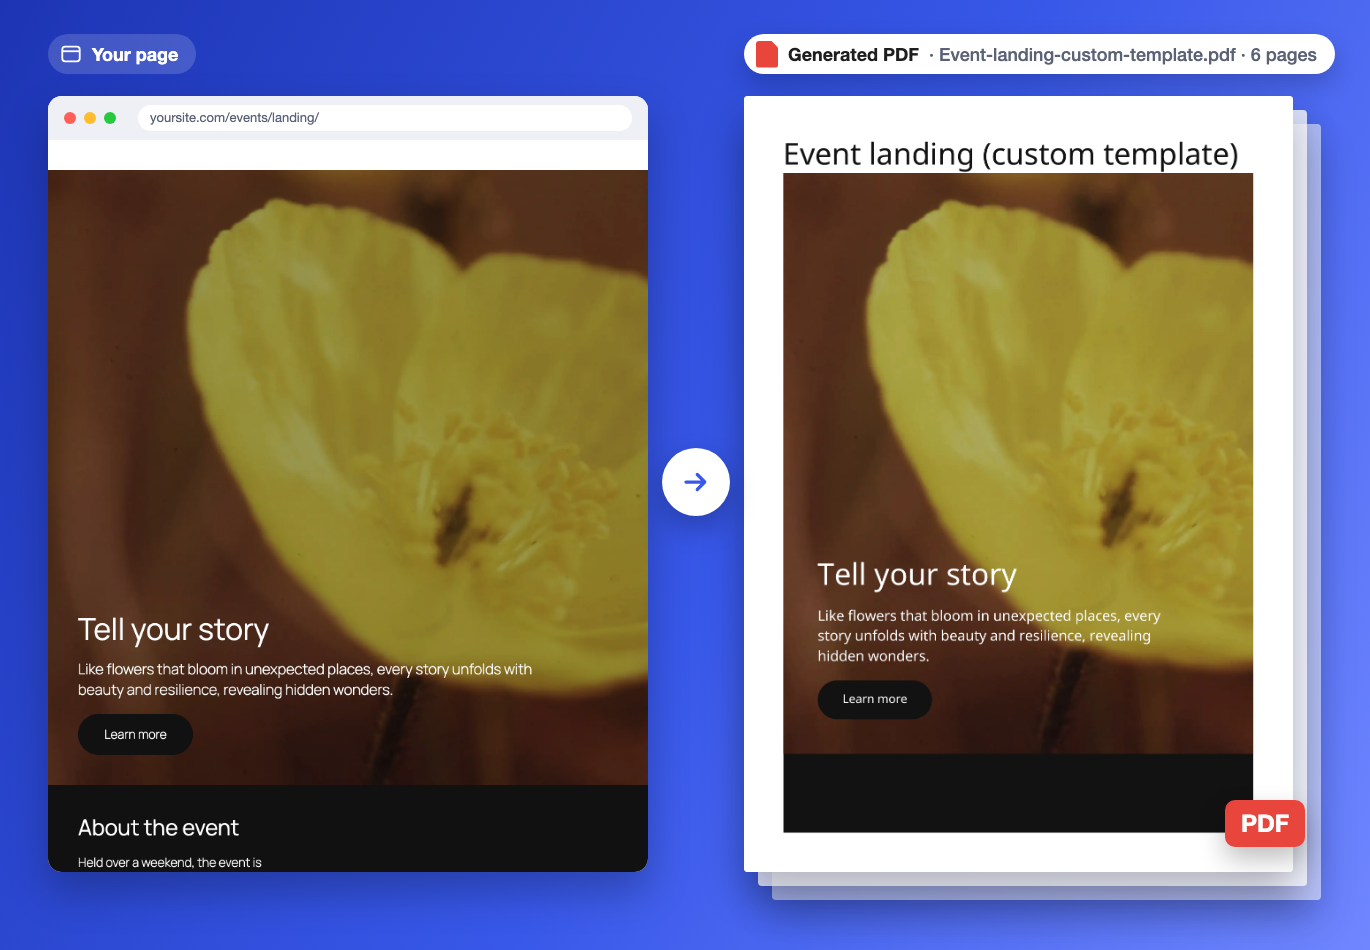
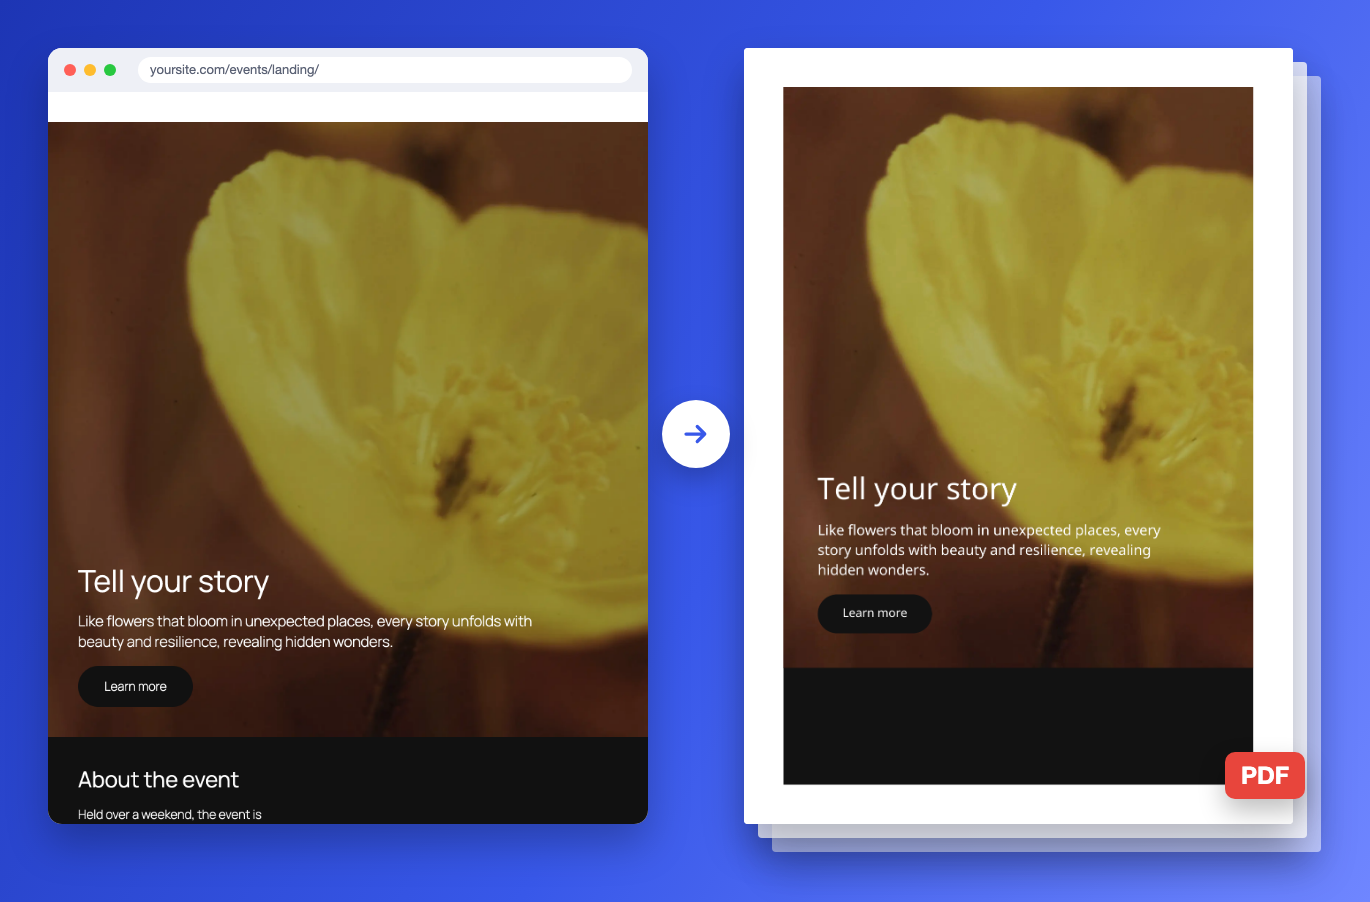
Update assets

diff --git a/bin/wporg-assets/web-to-pdf.html b/bin/wporg-assets/web-to-pdf.html
@@ -1,8 +1,8 @@
 <!doctype html>
 <!--
-	Screenshot 2, rendered at 1370x950 by bin/wporg-assets.mjs: the page in a browser frame on the left,
+	Screenshot 2, rendered at 1370x902 by bin/wporg-assets.mjs: the page in a browser frame on the left,
 	the generated PDF (first page on a stack of sheets) on the right.
-	Tokens: {{WEB}} (page capture, shown at 600x732), {{URL}}, {{PDF}} (first PDF page), {{FILENAME}}, {{PAGES}}.
+	Tokens: {{WEB}} (page capture, shown at 600x732), {{URL}}, {{PDF}} (first PDF page).
 -->
 <html>
 <head>
@@ -10,27 +10,14 @@
 <style>
 	html, body { margin: 0; }
 	body {
-		width: 1370px; height: 950px; overflow: hidden; position: relative;
+		width: 1370px; height: 902px; overflow: hidden; position: relative;
 		background: linear-gradient(120deg, #1d35b4 0%, #3858e9 55%, #6f86ff 100%);
 		font-family: -apple-system, "Helvetica Neue", Arial, sans-serif;
 	}
 
-	/* Labels above each side. */
-	.label {
-		position: absolute; top: 34px; height: 40px; display: flex; align-items: center; gap: 10px;
-		padding: 0 18px 0 12px; border-radius: 999px; font-size: 18px; font-weight: 700;
-	}
-	.label.web { left: 48px; background: rgba(255, 255, 255, .16); color: #fff; }
-	.label.pdf { left: 744px; background: #fff; color: #1e1e1e; box-shadow: 0 10px 24px rgba(0, 0, 0, .2); }
-	.label .meta { font-weight: 500; color: #5b6275; }
-	.doc {
-		width: 22px; height: 27px; background: #e8453c; border-radius: 3px;
-		clip-path: polygon(0 0, 15px 0, 100% 7px, 100% 100%, 0 100%);
-	}
-
 	/* The page. */
 	.browser {
-		position: absolute; left: 48px; top: 96px; width: 600px; border-radius: 14px; overflow: hidden;
+		position: absolute; left: 48px; top: 48px; width: 600px; border-radius: 14px; overflow: hidden;
 		background: #fff; box-shadow: 0 20px 40px rgba(0, 0, 0, .25);
 	}
 	.bar { height: 44px; background: #eef0f6; display: flex; align-items: center; gap: 8px; padding: 0 16px; }
@@ -46,32 +33,26 @@
 
 	/* Arrow between the two. */
 	.arrow {
-		position: absolute; left: 662px; top: 448px; width: 68px; height: 68px; border-radius: 50%;
+		position: absolute; left: 662px; top: 400px; width: 68px; height: 68px; border-radius: 50%;
 		background: #fff; box-shadow: 0 12px 28px rgba(0, 0, 0, .25);
 		display: flex; align-items: center; justify-content: center;
 	}
 
 	/* The PDF: first page on a stack of sheets. */
 	.sheet {
-		position: absolute; left: 744px; top: 96px; width: 549px; height: 776px; background: #fff; border-radius: 4px;
+		position: absolute; left: 744px; top: 48px; width: 549px; height: 776px; background: #fff; border-radius: 4px;
 		box-shadow: 0 20px 40px rgba(0, 0, 0, .25);
 	}
 	.sheet.s3 { transform: translate(28px, 28px); opacity: .55; }
 	.sheet.s2 { transform: translate(14px, 14px); opacity: .8; }
 	.sheet img { display: block; width: 100%; height: 100%; object-fit: contain; border-radius: 4px; }
 	.badge {
-		position: absolute; left: 1225px; top: 800px; background: #e8453c; color: #fff; font-weight: 800;
+		position: absolute; left: 1225px; top: 752px; background: #e8453c; color: #fff; font-weight: 800;
 		font-size: 24px; padding: 9px 16px; border-radius: 10px; box-shadow: 0 12px 26px rgba(0, 0, 0, .25);
 	}
 </style>
 </head>
 <body>
-	<div class="label web">
-		<svg width="22" height="22" viewBox="0 0 24 24" fill="none" stroke="#fff" stroke-width="2"><rect x="2.5" y="4" width="19" height="16" rx="3"/><path d="M2.5 9h19"/></svg>
-		Your page
-	</div>
-	<div class="label pdf"><span class="doc"></span>Generated PDF <span class="meta">· {{FILENAME}} · {{PAGES}}</span></div>
-
 	<div class="browser">
 		<div class="bar"><i></i><i></i><i></i><div class="url">{{URL}}</div></div>
 		<img src="{{WEB}}">

diff --git a/CLAUDE.md b/CLAUDE.md
@@ -20,7 +20,7 @@ Content PDF is a WordPress plugin (PHP 8.1+, namespace `Dinamiko\ContentPdf`) bu
 - `npm run playground`: starts WordPress Playground (`@wp-playground/cli`, no Docker) on `http://127.0.0.1:9400`, mounting this working copy as the plugin and running `bin/playground/blueprint.json` (activates the plugin, runs the demo seeder through the `wp-cli` step). Needs `composer install` and `npm run build`. The wordpress.org Live Preview uses `.wordpress-org/blueprints/blueprint.json` (installs from wordpress.org, same seeder; goes to SVN `assets/blueprints/blueprint.json`). Keep both blueprints in sync, and keep `bin/demo-content/` in the release zip because the preview seeds from the installed plugin.
 - `npm run copy-vendor`: copies the dompdf.js browser build from `node_modules` into `modules/Export/assets/vendor/dompdf/` (committed). `dompdf.js` is pinned in `package.json` because the export JS works around bugs in that version.
 - `npm run dist`: builds the JS, then runs `bin/dist.mjs` to create the wordpress.org release zip `dist/content-pdf.zip`, with a single `content-pdf/` folder inside. Only tracked files on the `INCLUDE` allowlist in `bin/dist.mjs` are copied: the main plugin file, `readme.txt`, `modules/` and `bin/demo-content/`. Production `vendor/` comes from `composer install --no-dev` in the staging folder, so the repo's dev `vendor/` is left alone. `composer.json` stays in the zip (Plugin Check warns about `vendor/` without it), and `composer.lock` is removed. `docs/` is never shipped. The command fails if the plugin header `Version:` doesn't match the readme's `Stable tag:`. It needs `composer` and `zip` on the host.
-- `npm run wporg:assets` / `npm run wporg:screenshots`: generate the wordpress.org plugin page assets in `.wordpress-org/` (goes to SVN `assets/`, never into the zip) with `bin/wporg-assets.mjs`. `wporg:assets` renders `icon.svg` to `icon-128x128.png`/`icon-256x256.png` and `bin/wporg-assets/banner.html` to `banner-1544x500.png`/`banner-772x250.png` (both are placeholders to replace with the final design). `wporg:screenshots` captures `screenshot-1..5.png` from the dev site, matching `== Screenshots ==` in `readme.txt`. Every screenshot sits on the banner's blue gradient with a 48px border (`scene()` in the script): #2 is a staged "page → generated PDF" scene (`bin/wporg-assets/web-to-pdf.html`: the page in a browser frame, the first PDF page on a stack of sheets, with the real filename and page count), settings cards in a browser frame with the admin chrome and other cards hidden. Screenshot 1 is a staged scene (`bin/wporg-assets/screenshot-1.html`: a post capture in a browser frame, with the button highlighted and the download notice); `node bin/wporg-assets.mjs --screenshot-1` renders only that one, without reseeding. It reseeds the block demo first and needs wp-env and `pdftoppm` (poppler) on the host.
+- `npm run wporg:assets` / `npm run wporg:screenshots`: generate the wordpress.org plugin page assets in `.wordpress-org/` (goes to SVN `assets/`, never into the zip) with `bin/wporg-assets.mjs`. `wporg:assets` renders `icon.svg` to `icon-128x128.png`/`icon-256x256.png` and `bin/wporg-assets/banner.html` to `banner-1544x500.png`/`banner-772x250.png` (both are placeholders to replace with the final design). `wporg:screenshots` captures `screenshot-1..5.png` from the dev site, matching `== Screenshots ==` in `readme.txt`. Every screenshot sits on the banner's blue gradient with a 48px border (`scene()` in the script): #2 is a staged "page → generated PDF" scene (`bin/wporg-assets/web-to-pdf.html`: the page in a browser frame, the first PDF page on a stack of sheets), settings cards in a browser frame with the admin chrome and other cards hidden. Screenshot 1 is a staged scene (`bin/wporg-assets/screenshot-1.html`: a post capture in a browser frame, with the button highlighted and the download notice); `node bin/wporg-assets.mjs --screenshot-1` renders only that one, without reseeding. It reseeds the block demo first and needs wp-env and `pdftoppm` (poppler) on the host.
 - `npm run lint:php` (or `composer lint:php`): runs PHP_CodeSniffer with WordPress Coding Standards and PHPCompatibilityWP (PHP 8.1+) on the host. `npm run lint:php:fix` auto-fixes with phpcbf. Config is in `phpcs.xml.dist`.
 
 ## Architecture
